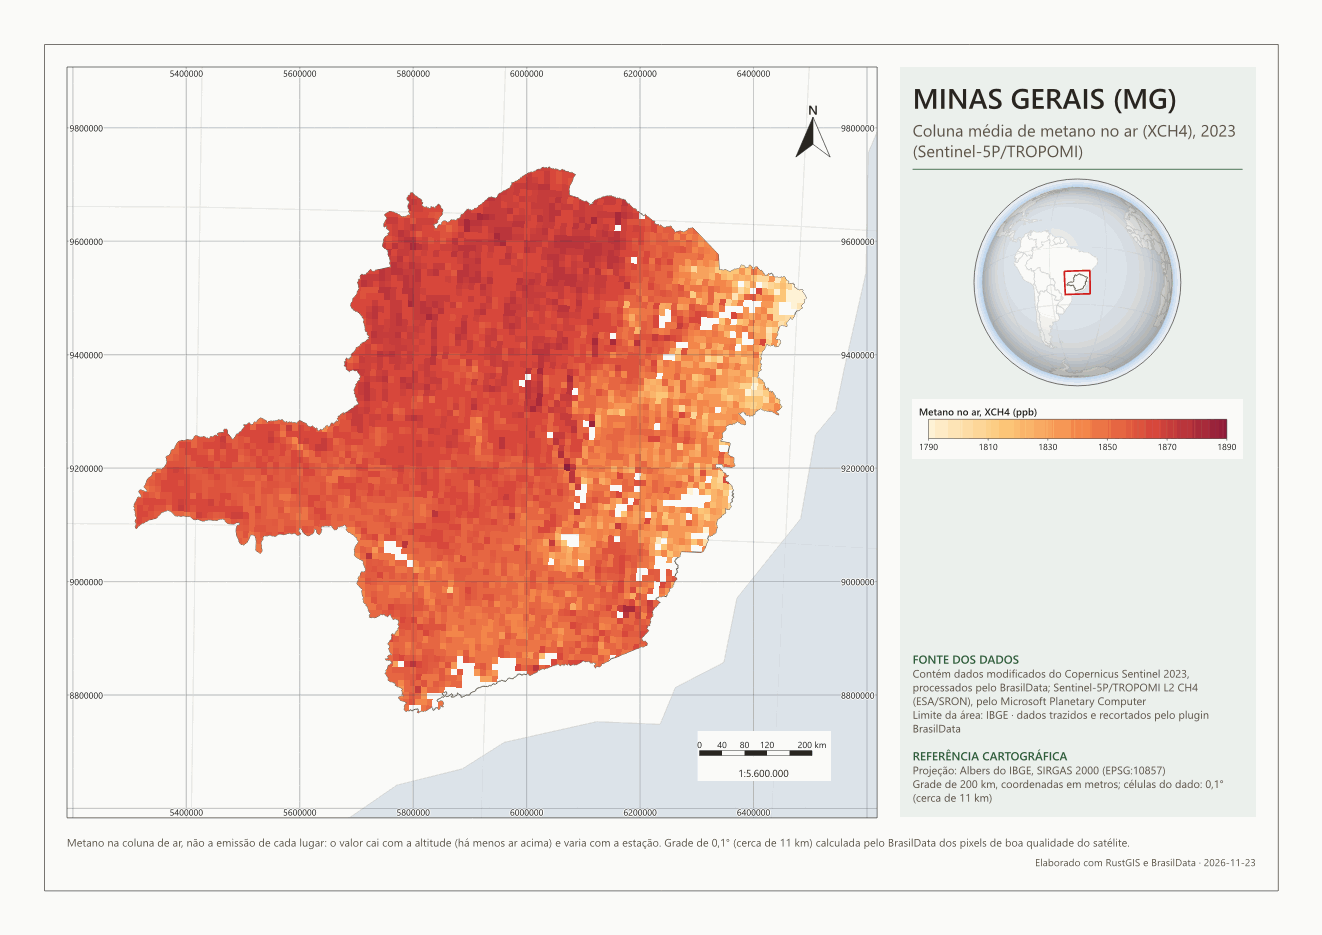
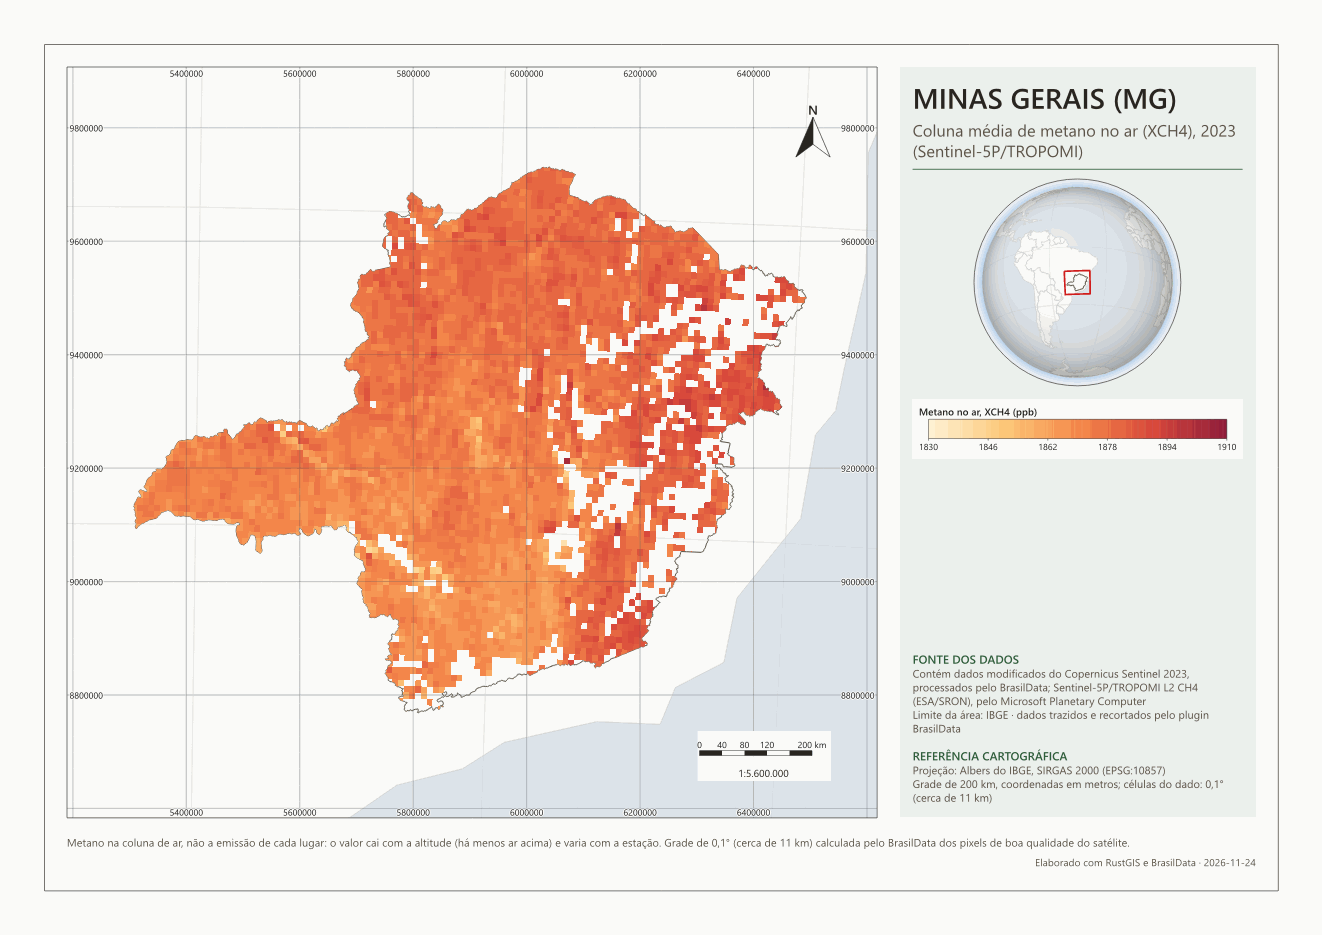
Metano: filtro de qualidade na escala certa, com a faixa de cores e os textos do dado refeito

Changed region(s): [[0.093, 0.1551, 0.6203, 0.7754]]

diff --git a/src/catalogo.rs b/src/catalogo.rs
@@ -3704,11 +3704,11 @@ pub const FICHAS: &[Ficha] = &[
         periodo: "2023 (o ano e cada mês; 2023 é o ano mais recente com todas as órbitas no Planetary Computer)",
         resolucao: "0,1° (cerca de 11 km); o pixel do satélite tem cerca de 7 × 5,5 km",
         unidades: "ppb (partes por bilhão, fração molar no ar seco)",
-        legenda: "Escala contínua do amarelo ao vermelho, de 1.790 a 1.890 ppb, a mesma em todo lugar e período.",
-        cuidados: "Mede o metano no ar, não a emissão de cada lugar: o valor cai com a altitude (há menos ar acima) e varia com a estação. Só pixels de boa qualidade (qa ≥ 0,5); sob nuvens e sobre água há falhas, e um mês tem menos observações que o ano. Células com menos de 3 observações no mês (10 no ano) ficam vazias.",
+        legenda: "Escala contínua do amarelo ao vermelho, de 1.830 a 1.910 ppb, a mesma em todo lugar e período.",
+        cuidados: "Mede o metano no ar, não a emissão de cada lugar: o valor cai com a altitude (há menos ar acima) e varia com a estação. Só pixels de boa qualidade (qa > 0,5), e as células com menos de 3 observações no mês (10 no ano) ficam vazias: a média do ano cobre 59% do Brasil (86% de Minas Gerais), os meses, de 2% (janeiro) a 58% (julho), e quase toda a Amazônia fica sem dado. A média do ano pesa mais os meses de maio a setembro, os de mais observações. Até a versão 0.1.69 o dado incluía, por engano, pixels de qualidade ruim, e os valores da Amazônia e do litoral do Nordeste eram baixos demais.",
         web: "sim (o GitHub libera a leitura pelo navegador); precisa de um RustGIS depois da 0.5.0",
         pagina: "https://github.com/elpidioassinaturas/BrasilData/blob/main/docs/camadas/metano-tropomi.md",
-        texto: "Metano no ar (Sentinel-5P)\nA coluna média de metano no ar (XCH4) medida pelo Sentinel-5P/TROPOMI, em média do ano ou do mês, numa grade de 0,1° calculada pelo BrasilData das órbitas do satélite.\nFonte: ESA/Copernicus (Sentinel-5P), processado pelo BrasilData.\nPeríodo: 2023 (o ano e cada mês; 2023 é o ano mais recente com todas as órbitas no Planetary Computer).\nResolução ou escala: 0,1° (cerca de 11 km); o pixel do satélite tem cerca de 7 × 5,5 km.\nUnidades: ppb (partes por bilhão, fração molar no ar seco).\nLegenda: Escala contínua do amarelo ao vermelho, de 1.790 a 1.890 ppb, a mesma em todo lugar e período.\nCuidados: Mede o metano no ar, não a emissão de cada lugar: o valor cai com a altitude (há menos ar acima) e varia com a estação. Só pixels de boa qualidade (qa ≥ 0,5); sob nuvens e sobre água há falhas, e um mês tem menos observações que o ano. Células com menos de 3 observações no mês (10 no ano) ficam vazias.\nLicença: livre e aberto (licença dos dados Copernicus Sentinel), com a citação.\nCitação: Contém dados modificados do Copernicus Sentinel 2023, processados pelo BrasilData; Sentinel-5P/TROPOMI L2 CH4 (ESA/SRON), pelo Microsoft Planetary Computer.\nApp web: sim (o GitHub libera a leitura pelo navegador); precisa de um RustGIS depois da 0.5.0.\nFicha e mapa exemplo: https://github.com/elpidioassinaturas/BrasilData/blob/main/docs/camadas/metano-tropomi.md",
+        texto: "Metano no ar (Sentinel-5P)\nA coluna média de metano no ar (XCH4) medida pelo Sentinel-5P/TROPOMI, em média do ano ou do mês, numa grade de 0,1° calculada pelo BrasilData das órbitas do satélite.\nFonte: ESA/Copernicus (Sentinel-5P), processado pelo BrasilData.\nPeríodo: 2023 (o ano e cada mês; 2023 é o ano mais recente com todas as órbitas no Planetary Computer).\nResolução ou escala: 0,1° (cerca de 11 km); o pixel do satélite tem cerca de 7 × 5,5 km.\nUnidades: ppb (partes por bilhão, fração molar no ar seco).\nLegenda: Escala contínua do amarelo ao vermelho, de 1.830 a 1.910 ppb, a mesma em todo lugar e período.\nCuidados: Mede o metano no ar, não a emissão de cada lugar: o valor cai com a altitude (há menos ar acima) e varia com a estação. Só pixels de boa qualidade (qa > 0,5), e as células com menos de 3 observações no mês (10 no ano) ficam vazias: a média do ano cobre 59% do Brasil (86% de Minas Gerais), os meses, de 2% (janeiro) a 58% (julho), e quase toda a Amazônia fica sem dado. A média do ano pesa mais os meses de maio a setembro, os de mais observações. Até a versão 0.1.69 o dado incluía, por engano, pixels de qualidade ruim, e os valores da Amazônia e do litoral do Nordeste eram baixos demais.\nLicença: livre e aberto (licença dos dados Copernicus Sentinel), com a citação.\nCitação: Contém dados modificados do Copernicus Sentinel 2023, processados pelo BrasilData; Sentinel-5P/TROPOMI L2 CH4 (ESA/SRON), pelo Microsoft Planetary Computer.\nApp web: sim (o GitHub libera a leitura pelo navegador); precisa de um RustGIS depois da 0.5.0.\nFicha e mapa exemplo: https://github.com/elpidioassinaturas/BrasilData/blob/main/docs/camadas/metano-tropomi.md",
     },
     Ficha {
         id: "indicadores-seeg",

diff --git a/scripts/metano_tropomi.py b/scripts/metano_tropomi.py
@@ -5,8 +5,9 @@ Copernicus CDS tem 1°). Este script lê as órbitas de metano do ano no Microso
 (coleção `sentinel-5p-l2-netcdf`, sem login), só as variáveis necessárias e só as linhas sobre o
 Brasil (pedidos parciais HTTP, cerca de 8 s por órbita), e acumula numa grade de 0,1° (~11 km):
 
-- `methane_mixing_ratio_bias_corrected` (ppb), dos pixels com `qa_value` ≥ 0,5 (a recomendação do
-  produto), pelo centro do pixel;
+- `methane_mixing_ratio_bias_corrected` (ppb), dos pixels com `qa_value` > 0,5 (a recomendação do
+  produto), pelo centro do pixel; o arquivo guarda o `qa_value` em centésimos (0 a 100, com
+  `scale_factor` 0,01), e o h5py não aplica a escala;
 - a média de cada mês (células com 3 observações ou mais) e a do ano (10 ou mais), e quantas
   observações entraram em cada célula.
 
@@ -81,6 +82,16 @@ def orbitas_do_mes(ano: int, mes: int) -> list[str]:
     return sorted(set(urls))
 
 
+def qualidade(q, a: int, b: int) -> np.ndarray:
+    """O `qa_value` das linhas `a` a `b`, de 0 a 1: o arquivo o guarda em uint8, de 0 a 100."""
+    escala = float(np.ravel(q.attrs["scale_factor"])[0])
+    soma = float(np.ravel(q.attrs["add_offset"])[0])
+    bruto = q[0, a:b]
+    v = bruto.astype(np.float64) * escala + soma
+    vazio = q.attrs.get("_FillValue")
+    return v if vazio is None else np.where(bruto == np.ravel(vazio)[0], 0.0, v)
+
+
 def ler_orbita(url: str, token: str) -> tuple[np.ndarray, np.ndarray, np.ndarray] | None:
     fs = fsspec.filesystem("https", block_size=2**20)
     for tentativa in range(4):
@@ -95,9 +106,9 @@ def ler_orbita(url: str, token: str) -> tuple[np.ndarray, np.ndarray, np.ndarray
                     return None
                 a, b = linhas.min(), linhas.max() + 1
                 ch4 = p["methane_mixing_ratio_bias_corrected"][0, a:b]
-                qa = p["qa_value"][0, a:b]
+                qa = qualidade(p["qa_value"], a, b)
                 lat, lon = lat[a:b], lon[a:b]
-                ok = dentro[a:b] & (qa >= QA_MINIMO) & (ch4 < 1e30) & np.isfinite(ch4)
+                ok = dentro[a:b] & (qa > QA_MINIMO) & (ch4 < 1e30) & np.isfinite(ch4)
                 return lat[ok], lon[ok], ch4[ok].astype(np.float64)
         except Exception as e:
             if tentativa == 3:

diff --git a/scripts/gerar.py b/scripts/gerar.py
@@ -1115,7 +1115,7 @@ EM_MENUS = [
         {
             "id": "metano-tropomi",
             "label": "Metano no ar (Sentinel-5P)",
-            "help": "A coluna média de metano no ar (XCH4, em ppb) medida pelo satélite Sentinel-5P (instrumento TROPOMI, do Copernicus): a média do ano ou de um mês, numa grade de 0,1° (cerca de 11 km) que o BrasilData calcula das órbitas do satélite, só com os pixels de boa qualidade (qa ≥ 0,5). Mostra onde há mais metano no ar, não quanto cada lugar emite: o valor cai com a altitude (há menos ar acima) e varia com a estação; manchas altas que se repetem nos meses apontam fontes, como áreas alagadas, pecuária e aterros. Numa área, a janela dela, lida do arquivo do Brasil e mascarada pelo contorno (as células da divisa aparecem cortadas por ele); sem área, o Brasil inteiro, lido pela vista. A camada fica abaixo dos rios, das estradas e das localidades. Contém dados modificados do Copernicus Sentinel (ESA). Precisa de um RustGIS depois da 0.5.0 (leitura da janela da área).",
+            "help": "A coluna média de metano no ar (XCH4, em ppb) medida pelo satélite Sentinel-5P (instrumento TROPOMI, do Copernicus): a média do ano ou de um mês, numa grade de 0,1° (cerca de 11 km) que o BrasilData calcula das órbitas do satélite, só com os pixels de boa qualidade (qa > 0,5): quase toda a Amazônia fica sem dado. Mostra onde há mais metano no ar, não quanto cada lugar emite: o valor cai com a altitude (há menos ar acima) e varia com a estação; manchas altas que se repetem nos meses apontam fontes, como áreas alagadas, pecuária e aterros. Numa área, a janela dela, lida do arquivo do Brasil e mascarada pelo contorno (as células da divisa aparecem cortadas por ele); sem área, o Brasil inteiro, lido pela vista. A camada fica abaixo dos rios, das estradas e das localidades. Contém dados modificados do Copernicus Sentinel (ESA). Precisa de um RustGIS depois da 0.5.0 (leitura da janela da área).",
             "icon": "graduated",
             "params": "{\"periodo\"?: \"média de 2023\" (padrão) | \"março de 2023\" | \"2023-03\"}",
             "form": [

diff --git a/src/comandos.rs b/src/comandos.rs
@@ -8011,8 +8011,9 @@ fn metano_na_area(req: &Request) -> Result<Value, String> {
         estilo_do_metano(&nome)?;
         sob_as_linhas(&nome)?;
         let texto = format!(
-            "{}: coluna média de metano (XCH4, ppb) do Sentinel-5P/TROPOMI em {periodo}, em células de 0,1° (cerca de 11 km), no Brasil inteiro; {fonte}",
-            nome.trim_start_matches(PREFIXO)
+            "{}: coluna média de metano (XCH4, ppb) do Sentinel-5P/TROPOMI em {periodo}, em células de 0,1° (cerca de 11 km), no Brasil inteiro; {fonte}. {}",
+            nome.trim_start_matches(PREFIXO),
+            metano::VAZIOS
         );
         avisar(&texto);
         return Ok(json!({"layer": nome, "report": texto}));
@@ -8040,8 +8041,9 @@ fn metano_na_area(req: &Request) -> Result<Value, String> {
     estilo_do_metano(&nome)?;
     sob_as_linhas(&nome)?;
     let texto = format!(
-        "{}: coluna média de metano (XCH4, ppb) do Sentinel-5P/TROPOMI em {periodo}, em células de 0,1° (cerca de 11 km), mascarada pelo contorno da área; {fonte}. Mede o metano no ar, não a emissão de cada lugar: o valor cai com a altitude",
-        nome.trim_start_matches(PREFIXO)
+        "{}: coluna média de metano (XCH4, ppb) do Sentinel-5P/TROPOMI em {periodo}, em células de 0,1° (cerca de 11 km), mascarada pelo contorno da área; {fonte}. Mede o metano no ar, não a emissão de cada lugar: o valor cai com a altitude. {}",
+        nome.trim_start_matches(PREFIXO),
+        metano::VAZIOS
     );
     avisar(&texto);
     Ok(json!({"layer": nome, "year": ano, "month": mes, "report": texto}))

diff --git a/src/metano.rs b/src/metano.rs
@@ -19,9 +19,12 @@ pub const MESES: [&str; 12] =
 /// O começo do nome das camadas.
 pub const PREFIXO_CAMADA: &str = "BrasilData: Metano no ar, XCH4 (Sentinel-5P";
 
-/// A faixa das cores (ppb): a coluna de metano sobre o Brasil em 2023 fica quase toda nela (do
-/// percentil 5, 1.712, ao 99, 1.881, com o meio entre 1.800 e 1.880).
-pub const FAIXA: (f64, f64) = (1790.0, 1890.0);
+/// A faixa das cores (ppb): a coluna de metano sobre o Brasil em 2023 fica quase toda nela (na média
+/// do ano, do percentil 1, 1.849, ao 99, 1.909; nos meses, de cerca de 1.830 a 1.915).
+pub const FAIXA: (f64, f64) = (1830.0, 1910.0);
+
+/// O que dizer das células vazias.
+pub const VAZIOS: &str = "As células sem cor não têm observação boa o bastante: são quase toda a Amazônia e, num mês, boa parte do país";
 
 /// A margem (graus) da janela lida em volta da área: um pouco mais que uma célula.
 pub const MARGEM: f64 = 0.15;

diff --git a/docs/camadas/metano-tropomi.md b/docs/camadas/metano-tropomi.md
@@ -15,8 +15,8 @@ A coluna média de metano no ar (XCH4) medida pelo Sentinel-5P/TROPOMI, em médi
 | **Período** | 2023 (o ano e cada mês; 2023 é o ano mais recente com todas as órbitas no Planetary Computer). |
 | **Resolução ou escala** | 0,1° (cerca de 11 km); o pixel do satélite tem cerca de 7 × 5,5 km. |
 | **Unidades** | ppb (partes por bilhão, fração molar no ar seco). |
-| **Legenda** | Escala contínua do amarelo ao vermelho, de 1.790 a 1.890 ppb, a mesma em todo lugar e período. |
-| **Cuidados de uso** | Mede o metano no ar, não a emissão de cada lugar: o valor cai com a altitude (há menos ar acima) e varia com a estação. Só pixels de boa qualidade (qa ≥ 0,5); sob nuvens e sobre água há falhas, e um mês tem menos observações que o ano. Células com menos de 3 observações no mês (10 no ano) ficam vazias. |
+| **Legenda** | Escala contínua do amarelo ao vermelho, de 1.830 a 1.910 ppb, a mesma em todo lugar e período. |
+| **Cuidados de uso** | Mede o metano no ar, não a emissão de cada lugar: o valor cai com a altitude (há menos ar acima) e varia com a estação. Só pixels de boa qualidade (qa > 0,5), e as células com menos de 3 observações no mês (10 no ano) ficam vazias: a média do ano cobre 59% do Brasil (86% de Minas Gerais), os meses, de 2% (janeiro) a 58% (julho), e quase toda a Amazônia fica sem dado. A média do ano pesa mais os meses de maio a setembro, os de mais observações. Até a versão 0.1.69 o dado incluía, por engano, pixels de qualidade ruim, e os valores da Amazônia e do litoral do Nordeste eram baixos demais. |
 | **Licença** | livre e aberto (licença dos dados Copernicus Sentinel), com a citação. |
 | **Citação** | Contém dados modificados do Copernicus Sentinel 2023, processados pelo BrasilData; Sentinel-5P/TROPOMI L2 CH4 (ESA/SRON), pelo Microsoft Planetary Computer. |
 | **App desktop** | sim |
